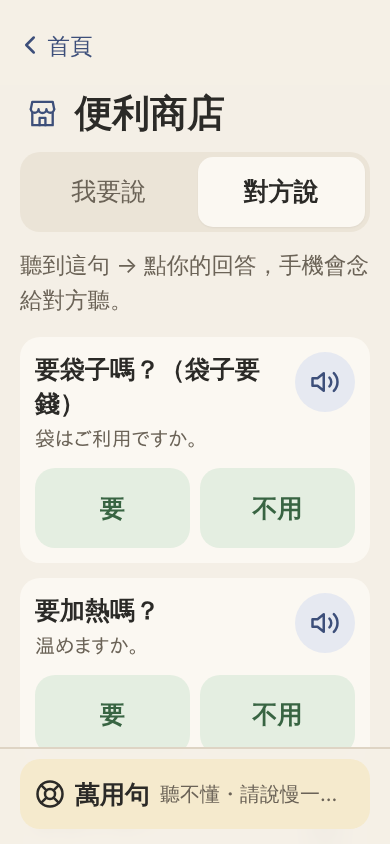
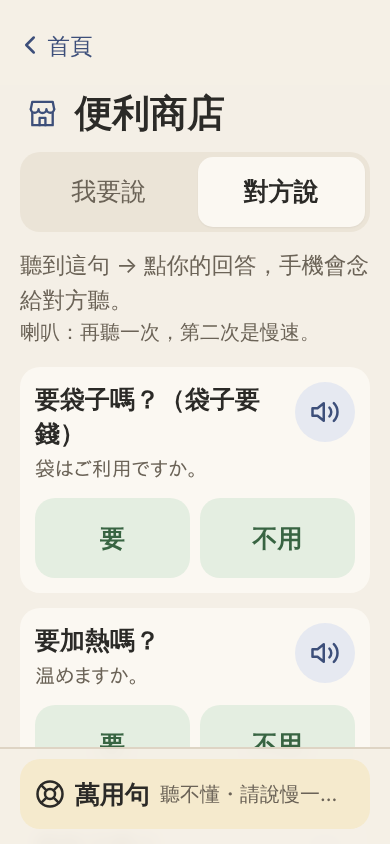
Review fixes: hotel name spoken only when the voice can read it, spec updated, empty medicines
- hotelSay uses the name only with a kana reading or a name in Japanese
  script; otherwise この ホテル まで.
- docs/spec.md: hotel choice by date, #/import then #/imported.
- The replace prompt drops names when both profiles are named alike.
- The heard tab explains the speaker again, in a short second line.
- Empty medicine cards are left off the medical card; the platform
  comment no longer states an unsourced fact.

Claude-Session: https://claude.ai/code/session_01HCVzmT4sZctHsc4m8wUAkT

diff --git a/src/profile/cards.ts b/src/profile/cards.ts
@@ -148,10 +148,14 @@ export function hotelCard(hotel: Hotel): CardBlock {
   return { jp: LINES.taxiToHotel, zh: "請載我到這間飯店。", extra: hotelLines(hotel), say: hotelSay(hotel) };
 }
 
-/** Said to a driver: the hotel by name (its reading, when typed), not just "this hotel". */
+/**
+ * Said to a driver: the hotel by name, not just "this hotel", when the voice
+ * can say it: with a kana reading, or a name in Japanese script. A name in
+ * English or Chinese only would be misread, so then it's "this hotel".
+ */
 export function hotelSay(hotel: Hotel): Jp {
-  const word = hotelWord(hotel);
-  return plain(word).trim() ? `${word} まで お{願|ねが}い します。` : LINES.taxiToHotel;
+  const sayable = hotel.kana.trim() || /[\u3041-\u30fa]/.test(hotel.name);
+  return sayable && plain(hotelWord(hotel)).trim() ? `${hotelWord(hotel)} まで お{願|ねが}い します。` : LINES.taxiToHotel;
 }
 
 const JOIN = "、";
@@ -179,6 +183,8 @@ export function medicalCard(profile: Profile, now = new Date()): CardBlock[] {
   // An empty line is 未記入 (not filled in), never なし (none): setup has no way to say "none", so an
   // empty field only means nobody wrote anything, and a doctor reads なし as "no allergies".
   const NOT_FILLED = "未記入";
+  // A medicine card added but left empty is no medicine.
+  const meds = h.meds.filter((m) => m.ingredient.trim() || m.dose.trim());
   const conditions = presetLine(CONDITIONS, h.conditions, h.conditionsOther);
   const drugs = presetLine(DRUG_ALLERGIES, h.drugAllergies);
   const foods = presetLine(FOOD_ALLERGIES, h.foodAllergies, h.allergyOther);
@@ -196,8 +202,8 @@ export function medicalCard(profile: Profile, now = new Date()): CardBlock[] {
       zh: "慢性病和常吃的藥。",
       extra: [
         `持病：${conditions || NOT_FILLED}`,
-        h.meds.length > 0 ? "服用中の薬：" : `服用中の薬：${NOT_FILLED}`,
-        ...h.meds.map((m) => `・${[m.ingredient, m.dose].filter(Boolean).join(" ")}`),
+        meds.length > 0 ? "服用中の薬：" : `服用中の薬：${NOT_FILLED}`,
+        ...meds.map((m) => `・${[m.ingredient, m.dose].filter(Boolean).join(" ")}`),
       ],
     },
   ];

diff --git a/tests/cards.test.ts b/tests/cards.test.ts
@@ -42,6 +42,19 @@ describe("help card", () => {
     expect(checkJp(card.say!)).toEqual([]);
   });
 
+  it("says the hotel's name only when the voice can read it: otherwise 'this hotel'", () => {
+    const hotel = sampleProfile().hotels[0]!;
+    expect(hotelCard({ ...hotel, name: "Hotel Gracery Shinjuku", kana: "" }).say).toBe(LINES.taxiToHotel);
+    expect(hotelCard({ ...hotel, name: "新宿華盛頓酒店", kana: "" }).say).toBe(LINES.taxiToHotel);
+    expect(hotelCard({ ...hotel, name: "ホテルグレイスリー新宿", kana: "" }).say).toBe("ホテルグレイスリー新宿 まで お{願|ねが}い します。");
+  });
+
+  it("leaves an empty medicine card off the medical card", () => {
+    const profile = emptyProfile();
+    profile.health.meds = [{ ingredient: " ", dose: "" }];
+    expect(medicalCard(profile)[2]?.extra).toEqual(["持病：未記入", "服用中の薬：未記入"]);
+  });
+
   it("formats contacts without a phone, and keeps a relation it doesn't know as typed", () => {
     expect(contactLines({ relation: "女兒", name: "", phone: "" }, "tw")).toEqual(["娘"]);
     expect(contactLines({ relation: "鄰居", name: "", phone: "" }, "tw")).toEqual(["鄰居"]);

diff --git a/src/ui/import.ts b/src/ui/import.ts
@@ -28,7 +28,12 @@ export function renderImport(root: HTMLElement, [payload = ""]: string[]): void 
     return;
   }
   // Whose is whose: one parent opening the other's link must not wipe their own card unawares.
-  screen(root, "swap", "要換成新的資料嗎？", `這支手機裡已經有「${who(current)}」的資料。換成連結裡「${who(incoming)}」的資料，原本的就會被取代。`, [
+  // Two profiles named alike would tell nothing apart: then without names.
+  const named = who(current) !== who(incoming);
+  const body = named
+    ? `這支手機裡已經有「${who(current)}」的資料。換成連結裡「${who(incoming)}」的資料，原本的就會被取代。`
+    : "這支手機裡已經有一份資料。換成連結裡的新資料，原本的就會被取代。";
+  screen(root, "swap", "要換成新的資料嗎？", body, [
     h("button", { type: "button", class: BUTTON.primary, onclick: () => done(root, incoming) }, icon("check"), "換成新的"),
     h("a", { href: "#/", class: BUTTON.secondary }, "保留原本的"),
   ]);

diff --git a/tests/ui-setup.test.ts b/tests/ui-setup.test.ts
@@ -216,6 +216,13 @@ describe("import", () => {
     expect(stored().callName).toBe("爸爸");
   });
 
+  it("doesn't name two profiles that are named alike", async () => {
+    saveProfile({ ...sampleProfile(), callName: "", passportName: "", hotels: [] });
+    await render(encodeProfile({ ...sampleProfile(), callName: "", passportName: "" }));
+    expect(app().textContent).toContain("這支手機裡已經有一份資料。");
+    expect(app().textContent).not.toContain("沒有稱呼");
+  });
+
   it("clears the payload and LINE's query from the address bar", async () => {
     history.replaceState(null, "", `${location.pathname}?openExternalBrowser=1#/s/${encodeProfile(sampleProfile())}`);
     await render(encodeProfile(sampleProfile()));

diff --git a/src/ui/scene.ts b/src/ui/scene.ts
@@ -403,7 +403,14 @@ export function renderScene(root: HTMLElement, [id, view]: string[]): void {
         )
       : pickerSlot,
     // One line, so the first card's answers start on the first screen at 特大.
-    heard && h("p", { class: "mt-3 text-lg text-muted" }, "聽到這句 → 點你的回答，手機會念給對方聽。"),
+    heard &&
+      h(
+        "p",
+        { class: "mt-3 text-lg text-muted" },
+        "聽到這句 → 點你的回答，手機會念給對方聽。",
+        // Short and smaller, so the first card's answers still start on the first screen.
+        h("span", { class: "block text-base" }, "喇叭：再聽一次，第二次是慢速。"),
+      ),
     list,
     rescueDock(),
     ],

diff --git a/src/content/replies.ts b/src/content/replies.ts
@@ -44,7 +44,7 @@ const PLATFORM_KANA = [
 export const REPLY_SETS: Record<ReplySet, Reply[]> = {
   yesNo: [{ jp: "はい", zh: "是／對" }, { jp: "いいえ", zh: "不是／不對" }, DONT_KNOW],
   platform: [
-    // Up to the Shinkansen platforms of Tokyo (to 23) and Shin-Osaka (to 27); 紙に書きます for anything else.
+    // A generous range for the biggest stations, Shinkansen platforms included; 紙に書きます for anything else.
     ...PLATFORM_KANA.map((_, i) => i + 1).map((n) => ({
       jp: `{${n}番線|${PLATFORM_KANA[n - 1]}}`,
       zh: `${n} 號月台`,

diff --git a/docs/spec.md b/docs/spec.md
@@ -42,7 +42,7 @@ Design baseline:
 | Section | Fields | Used in |
 |---|---|---|
 | Traveller | Name to call them by, passport name in English, birth year | Home greeting (「媽媽，旅途平安」, "Mom, have a safe trip"), help card, medical card |
-| Hotels (multiple allowed) | Japanese name, reading, address, phone, check-in to check-out date | The "current hotel" is chosen from today's date; if no dates match, the first one is used |
+| Hotels (multiple allowed) | Japanese name, reading, address, phone, check-in to check-out date | The "current hotel" is chosen from today's date: the stay covering today (on a changeover day the new one), else the next one (before the trip: the first night's), else the last one. Only with no dates at all is the first one entered used |
 | Daily plans (multiple allowed) | Type (station / place), Japanese name, reading, Chinese name, date, elevator notes | Station slot in transport phrases; 「今天要去」 (Going today) on the home page |
 | Contacts | Family (relationship, name, phone; multiple allowed, the first is primary), local contact in Japan | Help card, one-tap calling |
 | Health | Chronic conditions (checkboxes + free text), regular medications (active ingredient + dose), blood type | Medical card |
@@ -55,9 +55,9 @@ Design baseline:
 
 **When the traveller opens the link**:
 
-1. Decode and validate. On failure → 「這個連結好像不完整，請重新傳一次」 ("This link seems incomplete. Please send it again.").
-2. If different data is already stored on the device → 「要換成新的資料嗎？」 ("Replace with the new data?") (換新的 Replace / 保留原本的 Keep existing).
-3. Save to localStorage and change the URL to `#/imported` (so no data stays in the address bar or bookmarks).
+1. Decode and validate, and change the URL to `#/import` at once (so no data stays in the address bar, history or bookmarks; a reload of it shows home). On failure → 「這個連結好像不完整，請重新傳一次」 ("This link seems incomplete. Please send it again.").
+2. If different data is already stored on the device → 「要換成新的資料嗎？」 ("Replace with the new data?"), naming whose data is on the phone and whose is in the link (換成新的 Replace / 保留原本的 Keep existing).
+3. Save to localStorage and change the URL to `#/imported`.
 4. Show 「設定完成」 ("Setup complete"): from now on, just open the site; no need to tap the link again.
 
 ### 2.2 我需要幫忙 (I need help) (`#/help`)
